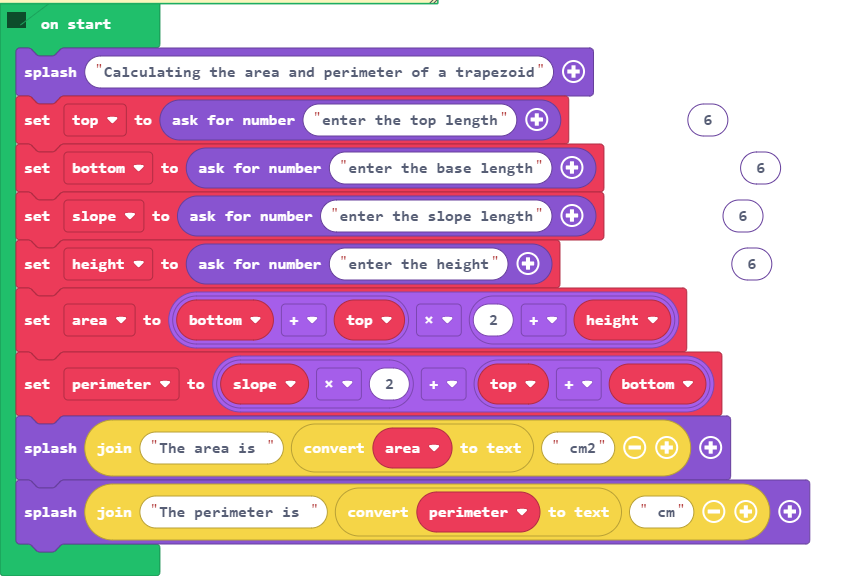
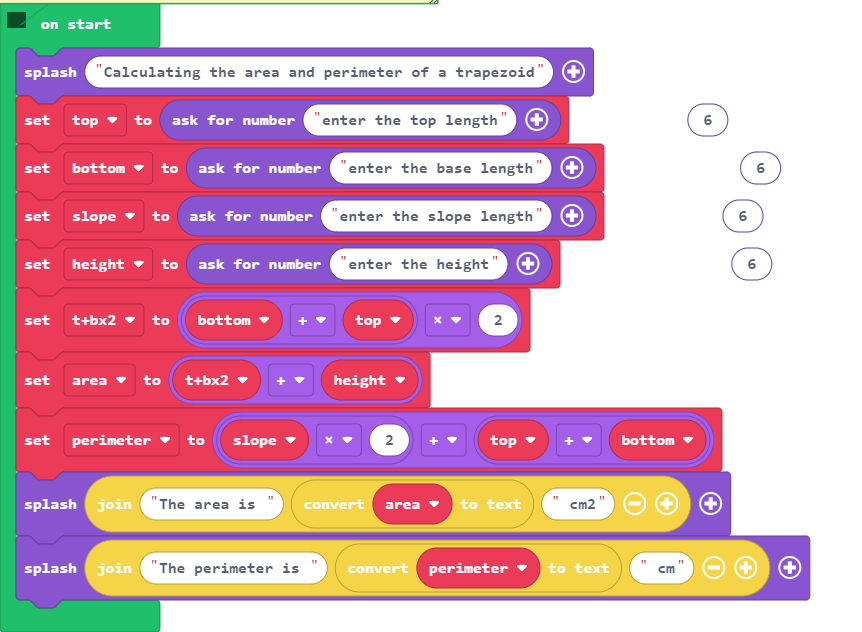
Update main.blocks, main.ts

diff --git a/main.ts b/main.ts
@@ -4,7 +4,8 @@ let top = game.askForNumber("enter the top length")
 let bottom = game.askForNumber("enter the base length")
 let slope = game.askForNumber("enter the slope length")
 let height = game.askForNumber("enter the height")
-let area = (bottom + top) * (2 + height)
+let tbx2 = (bottom + top) * 2
+let area = tbx2 + height
 let perimeter = slope * 2 + (top + bottom)
 game.splash("The area is " + convertToText(area) + " cm2")
 game.splash("The perimeter is " + convertToText(perimeter) + " cm")
